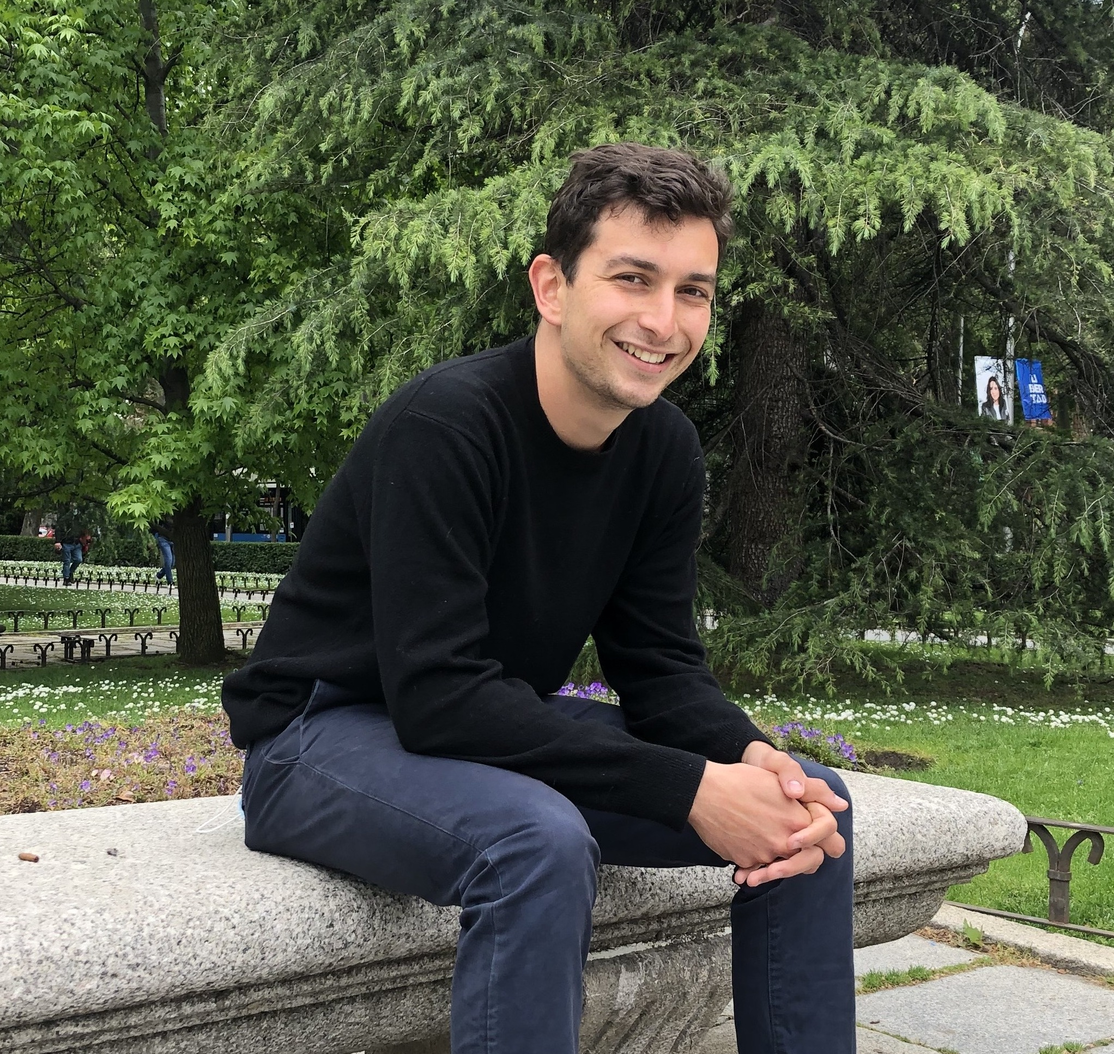
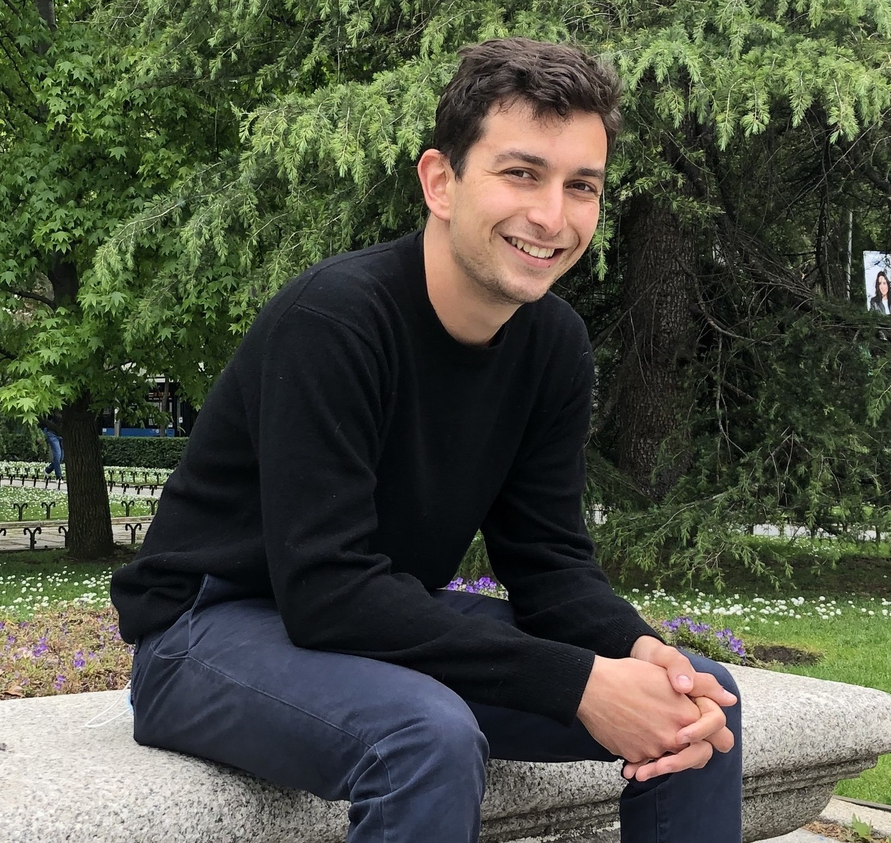
Arbitrary changes made

diff --git a/_layouts/homelay.html b/_layouts/homelay.html
@@ -5,7 +5,7 @@ layout: default
 <div id="home-page" class="container" style="max-width: 960px; margin: 0 auto; padding: 20px; text-align: center;">
   <!-- Profile Image -->
   <div style="margin-bottom: 30px; margin-top: 60px;">
-    <img src="{{ site.srl }}{{ site.baseurl }}/images/bench_good.jpg" alt="Benjamin Colmey"
+    <img src="{{ site.srl }}{{ site.baseurl }}/images/bench.jpg" alt="Benjamin Colmey"
          style="width: 300px; height: auto; border-radius: 50%; border: 2px solid #ddd;">
   </div>
 
